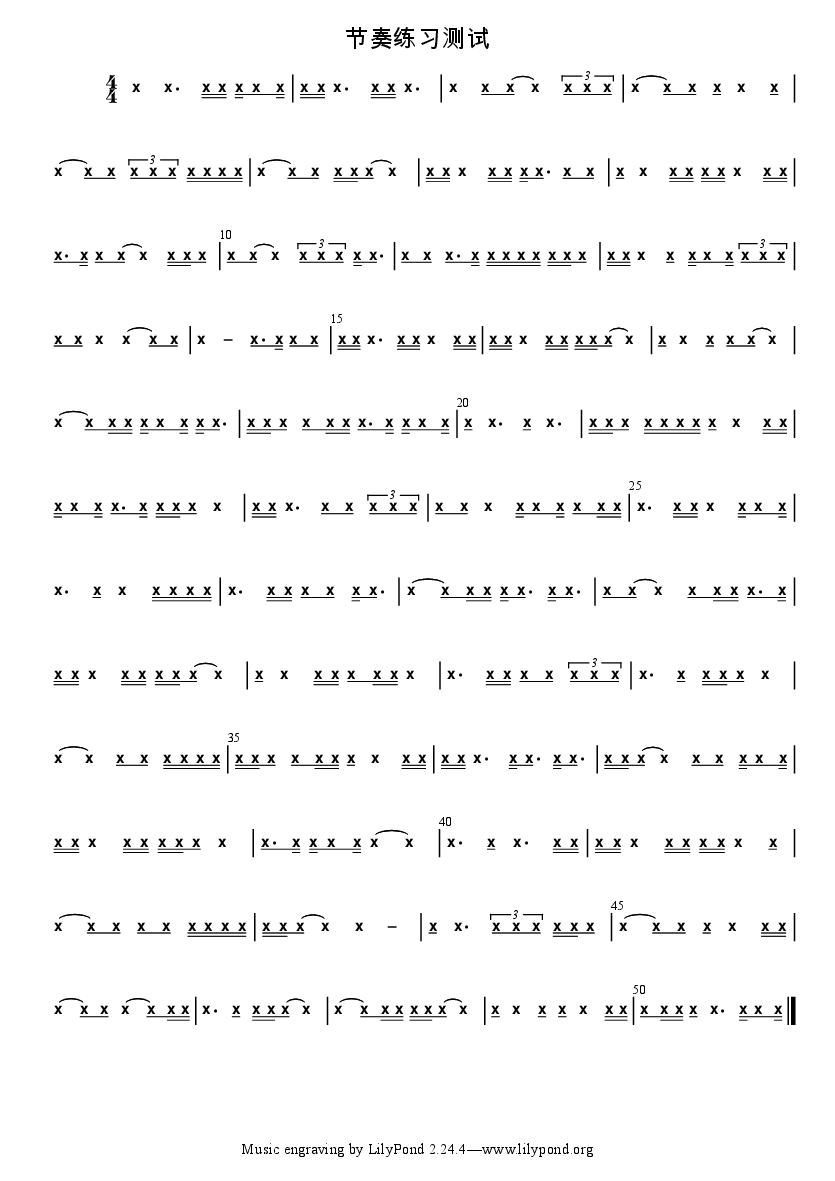
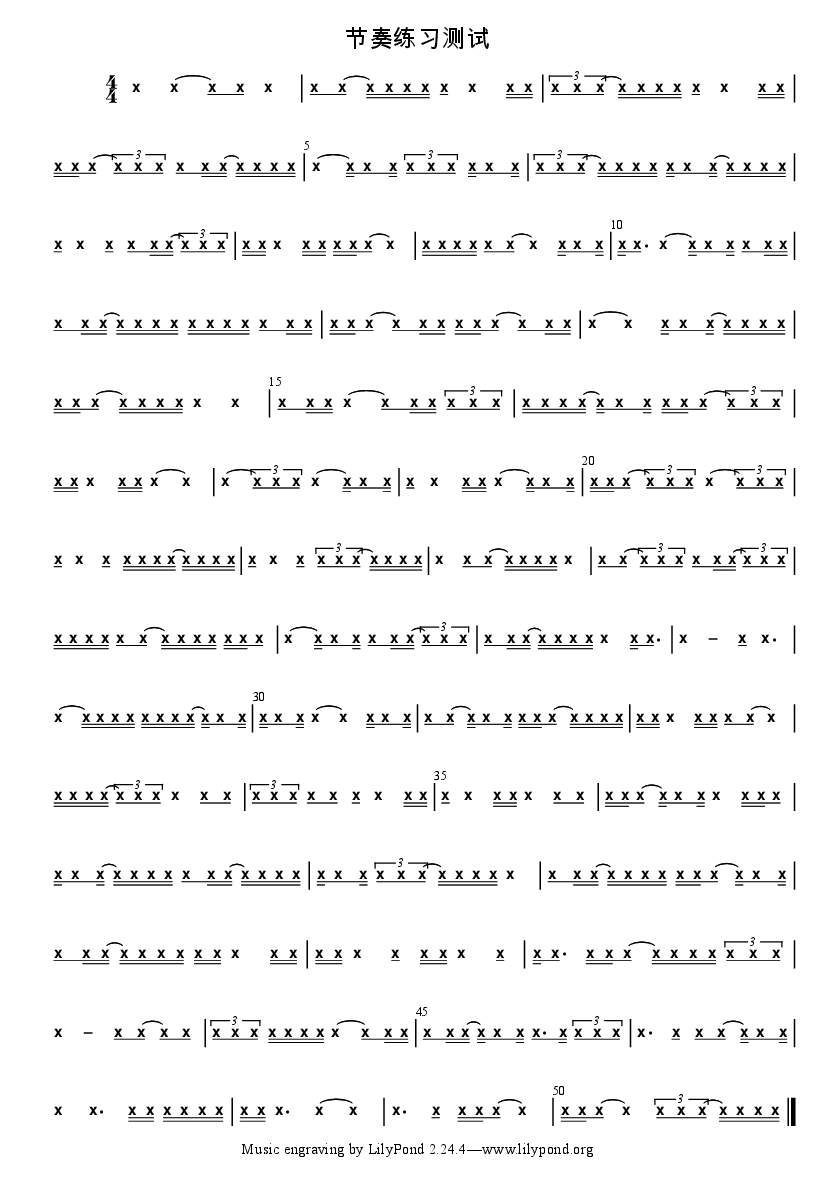
add more beat patterns with ties

diff --git a/rhythm_practice/generate.py b/rhythm_practice/generate.py
@@ -9,6 +9,7 @@ import time
 
 from .jianpuly import process_input, write_output
 
+
 class BeatPattern:
     def __init__(self, name: str, pattern: str, length: int):
         self.name = name
@@ -56,20 +57,42 @@ TwoBeatPatterns = [
     BeatPattern(name="大大切分分", pattern="sx sx x sx sx", length=2),
 ]
 
-OneAndTwoBeatPatterns = OneBeatPatterns + TwoBeatPatterns
-
 BeatPatternsWithTies = [
     BeatPattern(name="四连四", pattern="x ~ x", length=2),
     BeatPattern(name="四连八十六", pattern="x ~ qx sx sx", length=2),
     BeatPattern(name="四连二八", pattern="x ~ qx qx", length=2),
     BeatPattern(name="十六八连四", pattern="sx sx qx ~ x", length=2),
     BeatPattern(name="二八连四", pattern="qx qx ~ x", length=2),
+    BeatPattern(name="二八连二八", pattern="qx qx ~ qx qx", length=2),
+    BeatPattern(name="二八连八十六", pattern="qx qx ~ qx sx sx", length=2),
+    BeatPattern(name="十六八连二八", pattern="sx sx qx ~ qx qx", length=2),
+    BeatPattern(name="十六八连八十六", pattern="sx sx qx ~ qx sx sx", length=2),
+    BeatPattern(name="四连小切分", pattern="x ~ sx qx sx", length=2),
+    BeatPattern(name="二八连小切分", pattern="qx qx ~ sx qx sx", length=2),
+    BeatPattern(name="四连三连音",pattern="x ~ 3[ qx qx qx ]", length=2),
+    BeatPattern(name="二八连三连音", pattern="qx qx ~ 3[ qx qx qx ]", length=2),
+    BeatPattern(name="四连四个十六", pattern="x ~ sx sx sx sx", length=2),
+    BeatPattern(name="二八连四个十六", pattern="qx qx ~ sx sx sx sx", length=2),
+    BeatPattern(name="八十六连小切分", pattern="qx sx sx ~ sx qx sx", length=2),
+    BeatPattern(name="十六八连小切分", pattern="sx sx qx ~ sx qx sx", length=2),
+    BeatPattern(name="八十六连三连音", pattern="qx sx sx ~ 3[ qx qx qx ]", length=2),
+    BeatPattern(name="十六八连三连音", pattern="sx sx qx ~ 3[ qx qx qx ]", length=2),
+    BeatPattern(name="八十六连四个十六", pattern="qx sx sx ~ sx sx sx sx", length=2),
+    BeatPattern(name="十六八连四个十六", pattern="sx sx qx ~ sx sx sx sx", length=2),
+    BeatPattern(name="四个十六连小切分", pattern="sx sx sx sx ~ sx qx sx", length=2),
+    BeatPattern(name="小切分连四个十六", pattern="sx qx sx ~ sx sx sx sx", length=2),
+    BeatPattern(name="四个十六连三连音", pattern="sx sx sx sx ~ 3[ qx qx qx ]", length=2),
+    BeatPattern(name="三连音连四个十六", pattern="3[ qx qx qx ] ~ sx sx sx sx", length=2),
+    BeatPattern(name="四个十六连四个十六", pattern="sx sx sx sx ~ sx sx sx sx", length=2)
 ]
 
+OneAndTwoBeatPatterns = OneBeatPatterns + TwoBeatPatterns
 HardMixedPatterns = OneAndTwoBeatPatterns + BeatPatternsWithTies
 
 
-def get_random_sequence(sequence_list: list[BeatPattern], total_beats: int, per_measure_beats: int):
+def get_random_sequence(
+    sequence_list: list[BeatPattern], total_beats: int, per_measure_beats: int
+):
     generated_list = []
     generated_measures = 0
     current_measure_beats = 0
@@ -110,9 +133,13 @@ def generate_sequence_of_n_beats(
             random.choice(TwoBeatPatterns) for _ in range(num_of_beats // 2)
         ]
     elif mode == RhythmModes.RandomMixedOneBeatsAndTwoBeats:
-        generated_list = get_random_sequence(OneAndTwoBeatPatterns, num_of_beats, num_beats_per_measure)
+        generated_list = get_random_sequence(
+            OneAndTwoBeatPatterns, num_of_beats, num_beats_per_measure
+        )
     elif mode == RhythmModes.HardMixedWithTies:
-        generated_list = get_random_sequence(HardMixedPatterns, num_of_beats, num_beats_per_measure)
+        generated_list = get_random_sequence(
+            HardMixedPatterns, num_of_beats, num_beats_per_measure
+        )
     else:
         raise TypeError("不存在所选的节奏模式")
     return generated_list
@@ -166,17 +193,18 @@ title={title}
     article = head + "\n".join(lines) + "\n"
     return article
 
+
 def compile_lilypond_file(lilypond_out: str, output_file):
     result = subprocess.run(
         ["lilypond", "--png", "-dbackend=eps", f"-o{output_file}", "-"],
-        input=lilypond_out.encode('utf-8'),
+        input=lilypond_out.encode("utf-8"),
         stdout=subprocess.PIPE,
-        stderr=subprocess.PIPE
+        stderr=subprocess.PIPE,
     )
     if result.returncode == 0:
         print("Output file generated successfully.")
     else:
-        print("Error:", result.stderr.decode('utf-8'))
+        print("Error:", result.stderr.decode("utf-8"))
 
 
 def generate_jianpu_file(
@@ -186,11 +214,11 @@ def generate_jianpu_file(
     time_signature: str,
     output_file: Path,
 ):
-    random.seed(time.time()) 
+    random.seed(time.time())
     generated_list = generate_sequence_of_n_beats(num_of_beats, mode)
     print(generated_list)
-    article = get_jianpu_lilypond_str_from_BeatPatternList(num_of_beats,
-        generated_list, title=title, time_signature=time_signature
+    article = get_jianpu_lilypond_str_from_BeatPatternList(
+        num_of_beats, generated_list, title=title, time_signature=time_signature
     )
     print(article)
 
